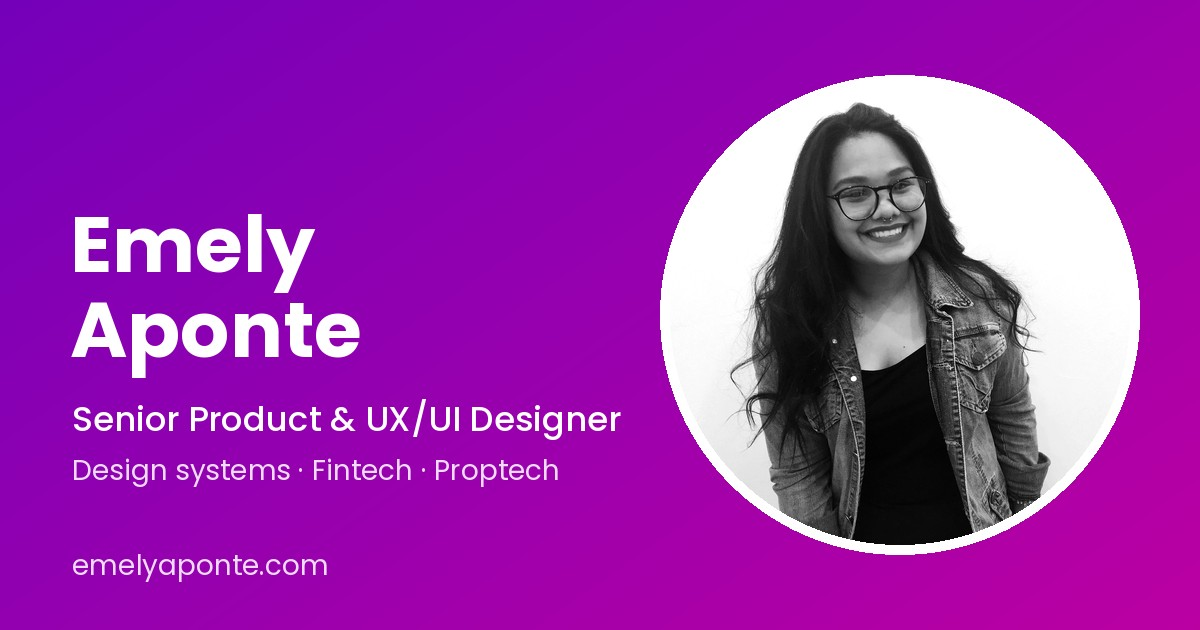
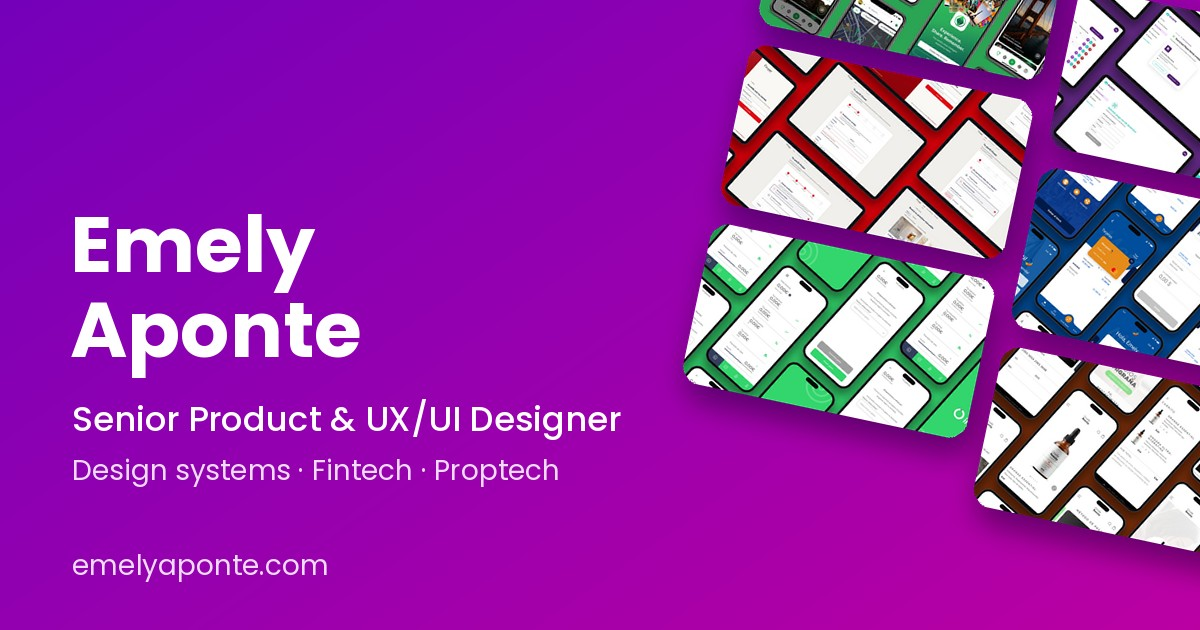
Imagen para compartir: portadas de los casos en lugar de la foto
- og-default.jpg muestra una cuadrícula inclinada con las portadas de PinsXP, Finaer & Fivy, Kuara, Mercantil, in99 y CrudeBeauty.

Claude-Session: https://claude.ai/code/session_01N3PzNDN6i8ffJg9tCN8Eic

diff --git a/scripts/og-image.py b/scripts/og-image.py
@@ -2,7 +2,7 @@
 #   python3 scripts/og-image.py   → public/og-default.jpg
 import os
 
-from PIL import Image, ImageDraw, ImageFont
+from PIL import Image, ImageDraw, ImageFilter, ImageFont, ImageOps
 
 HERE = os.path.dirname(os.path.abspath(__file__))
 W, H = 1200, 630
@@ -14,15 +14,26 @@ big = Image.linear_gradient('L').resize((1700, 1700)).rotate(35)
 grad = big.crop(((1700 - W) // 2, (1700 - H) // 2, (1700 + W) // 2, (1700 + H) // 2))
 img = Image.composite(Image.new('RGB', (W, H), FUCHSIA), Image.new('RGB', (W, H), PURPLE), grad)
 
-# Portrait in a circle, on the right
-photo = Image.open(os.path.join(HERE, '../src/assets/photos/emely-square.jpg')).convert('RGB').resize((460, 460), Image.LANCZOS)
-mask = Image.new('L', (460, 460), 0)
-ImageDraw.Draw(mask).ellipse((0, 0, 459, 459), fill=255)
-ring = Image.new('RGB', (480, 480), (255, 255, 255))
-ringmask = Image.new('L', (480, 480), 0)
-ImageDraw.Draw(ringmask).ellipse((0, 0, 479, 479), fill=255)
-img.paste(ring, (660, 75), ringmask)
-img.paste(photo, (670, 85), mask)
+# Case-study covers as a tilted grid of cards on the right, bleeding off the edge
+ROOT = os.path.join(HERE, '../src/assets/projects/')
+covers = ['home/pinsxp.jpg', 'kuara/cover.jpg', 'finaer-fivy/cover.jpg', 'mercantil/cover.jpg', 'in99/cover.jpg', 'crudebeauty/cover.jpg']
+CW, CH, GAP = 290, 163, 20
+img = img.convert('RGBA')
+layer = Image.new('RGBA', (900, 900), (0, 0, 0, 0))
+for i, name in enumerate(covers):
+    col, row = i % 2, i // 2
+    cover = Image.open(ROOT + name).convert('RGB')
+    cover = ImageOps.fit(cover, (CW, CH), Image.LANCZOS)
+    mask = Image.new('L', (CW, CH), 0)
+    ImageDraw.Draw(mask).rounded_rectangle((0, 0, CW - 1, CH - 1), 18, fill=255)
+    x, y = 90 + col * (CW + GAP), 80 + row * (CH + GAP) + col * 60
+    shadow = Image.new('RGBA', layer.size, (0, 0, 0, 0))
+    shadow.paste(Image.new('RGBA', (CW, CH), (40, 0, 70, 140)), (x + 8, y + 14), mask)
+    layer.alpha_composite(shadow.filter(ImageFilter.GaussianBlur(14)))
+    layer.paste(cover, (x, y), mask)
+layer = layer.rotate(-12, resample=Image.BICUBIC)
+img.alpha_composite(layer, (615, -150))
+img = img.convert('RGB')
 
 d = ImageDraw.Draw(img)
 bold, semi, light = (ImageFont.truetype(FONTS + f, s) for f, s in (('Poppins-Bold.ttf', 78), ('Poppins-Medium.ttf', 34), ('Poppins-Regular.ttf', 28)))
